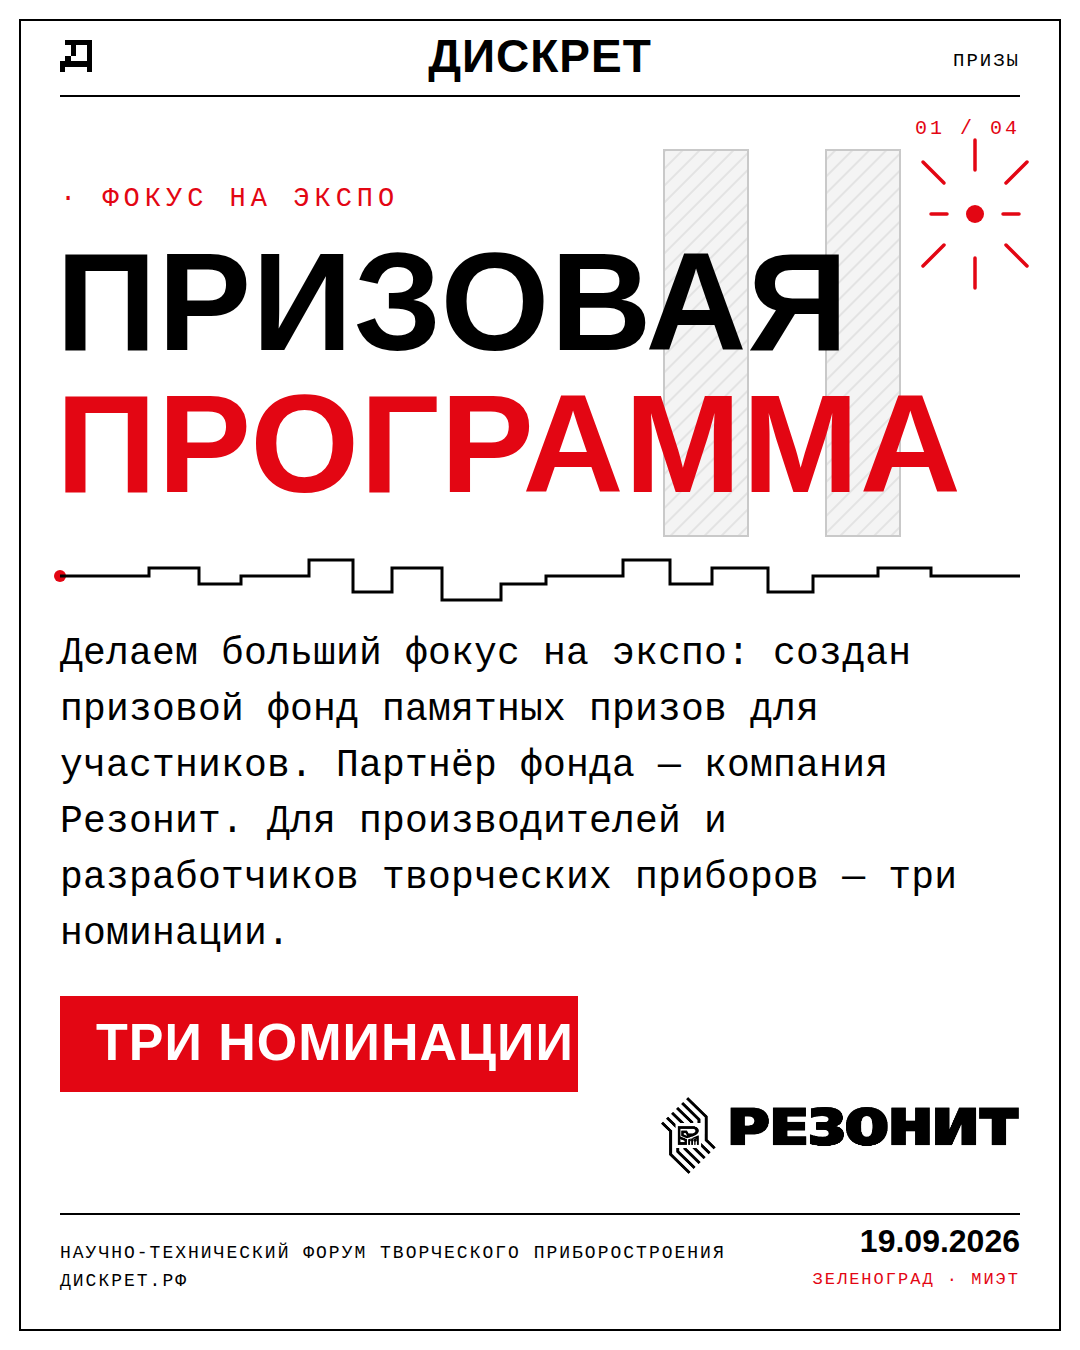
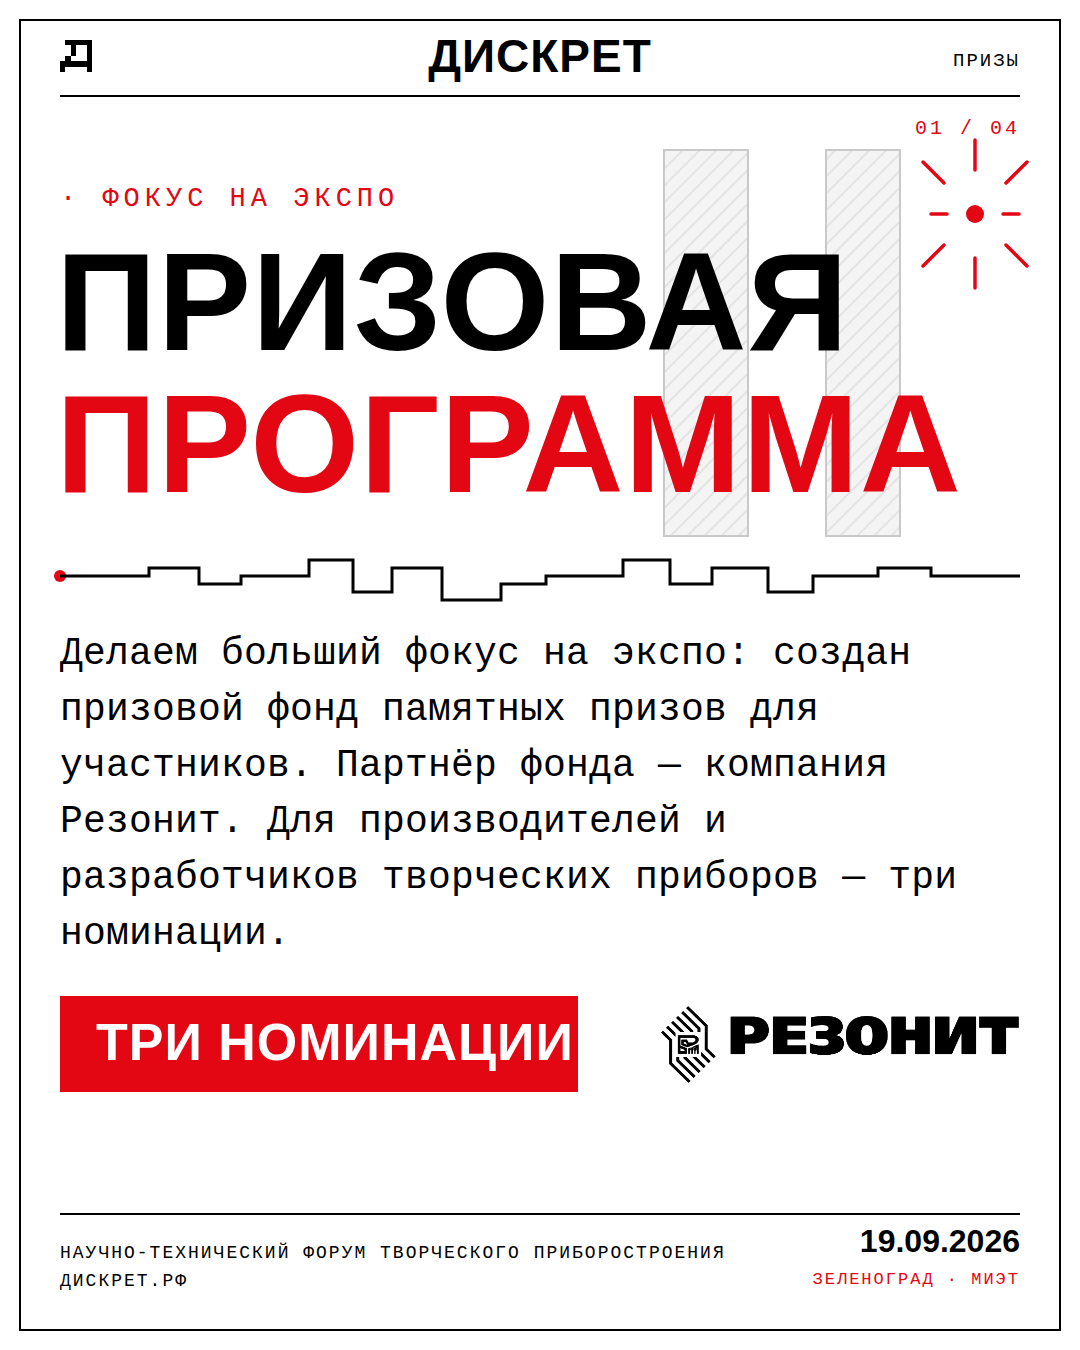
Правки раскладки призовых карточек 01 и 03
Claude-Session: https://claude.ai/code/session_01J7cakNvVwscKzgnd8yf78u

Changed region(s): [[0.6111, 0.7467, 0.9472, 0.8711]]

diff --git a/branding/tools/gen_prize_cards.js b/branding/tools/gen_prize_cards.js
@@ -87,7 +87,7 @@ ${content}
 const c1 = card('01', 'ФОКУС НА ЭКСПО', 'ПРИЗОВАЯ', 'ПРОГРАММА',
   bodyLines('Делаем больший фокус на экспо: создан призовой фонд памятных призов для участников. Партнёр фонда — компания Резонит. Для производителей и разработчиков творческих приборов — три номинации.', 41, 664, 38, 56) + `
 ${plate('ТРИ НОМИНАЦИИ', 996)}
-<image x="660" y="1096" width="360" height="79" href="mono/rezonit.png" preserveAspectRatio="xMidYMid meet"/>`);
+<image x="660" y="1005" width="360" height="79" href="mono/rezonit.png" preserveAspectRatio="xMidYMid meet"/>`);
 
 // 02 — номинации и как участвовать
 const noms = [['01','СЛЕДУЮЩАЯ РЕВИЗИЯ'],['02','ИНЖЕНЕРНОЕ РЕШЕНИЕ'],['03','ЦЕЛЬНОСТЬ УСТРОЙСТВА']];
@@ -105,8 +105,8 @@ ${plate('ИТОГИ — В КОНЦЕ ДНЯ', 1086)}`);
 // 03 — DJ Store и Пикасо 3D
 const c3 = card('03', 'ОБОРУДОВАНИЕ И АКСЕССУАРЫ', 'ЗВУК', 'И ПОРЯДОК',
   bodyLines('DJ Store — звуковое оборудование столов выставки и демо-зоны: безопасное прослушивание и подключение к звуковым системам. Пикасо 3D — настольные аксессуары против хаоса проводов и тематические призы всем посетителям форума.', 41, 664, 38, 56) + `
-<image x="60" y="1030" width="330" height="86" href="mono/djstore.png" preserveAspectRatio="xMidYMid meet"/>
-<image x="500" y="1044" width="400" height="58" href="mono/picaso.png" preserveAspectRatio="xMidYMid meet"/>`);
+<image x="60" y="1072" width="330" height="86" href="mono/djstore.png" preserveAspectRatio="xMidYMid meet"/>
+<image x="500" y="1086" width="400" height="58" href="mono/picaso.png" preserveAspectRatio="xMidYMid meet"/>`);
 
 // 04 — коллаборация с МИЭТ
 const c4 = card('04', 'КОЛЛАБОРАЦИЯ С УНИВЕРСИТЕТОМ', 'ПРИЗЫ', 'ОТ МИЭТ',
